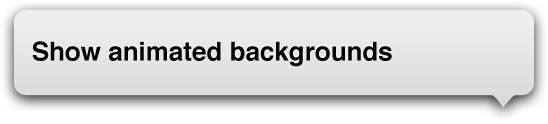
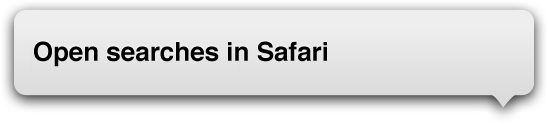
Changes for the Open in Safari switch

Changed region(s): [[0.062, 0.3145, 0.7135, 0.5323]]

diff --git a/app/WebSearch.js b/app/WebSearch.js
@@ -74,20 +74,28 @@ jQuery(function() {
 		}
 	}
 	
+	var openURL = function(url){
+		if($.WSConfig.get("WSOpenInSafari") == true){
+			window.location.href = url;
+		}else{
+			window.location = url;
+		}
+	}
+	
 	var pages = [
 		{ // Google
 			id: "searchGoogle",
 			contents: '<div id="googleLogo"></div>',
 			search: function(term){
 				term = term.replace(" ","+");
-				window.location = "http://www.google.com/search?q="+term+"&ie=UTF-8&oe=UTF-8&hl=en&client=safari";
+				openURL("http://www.google.com/search?q="+term+"&ie=UTF-8&oe=UTF-8&hl=en&client=safari");
 			}
 		}, { // Twitter
 			id: "searchTwitter",
 			contents: '<div id="twitterLogo"></div><div id="twitterBackground"></div>',
 			search:function(term){
 				term = term.replace(" ", "+");
-				window.location = "http://mobile.twitter.com/searches?q=" + term;
+				openURL("http://mobile.twitter.com/searches?q=" + term);
 			},
 			appear: $.PageView.Twitter.appear,
 			disappear: $.PageView.Twitter.disappear,
@@ -97,14 +105,14 @@ jQuery(function() {
 			id: "searchWikipedia",
 			search: function(term){
 				term = term.replace(" ","+");
-				window.location = "http://en.wikipedia.org/w/index.php?title=Special%3ASearch&search=" + term;
+				openURL("http://en.wikipedia.org/w/index.php?title=Special%3ASearch&search=" + term);
 			}
 		}, { // Flickr
  			id: "searchFlickr",
  			contents: '<div id="flickrLogo"></div>',
  			search:function(term){
  				term = term.replace(" ", "+");
- 				window.location = "http://m.flickr.com/#/search/advanced/_QM_q_IS_" + term;
+ 				openURL("http://m.flickr.com/#/search/advanced/_QM_q_IS_" + term);
  			}
  //			appear: $.PageView.Flickr.appear,
  //			disappear: $.PageView.Flickr.disappear
@@ -114,7 +122,7 @@ jQuery(function() {
 			contents: '<div id="bingLogo"></div><div id="bingBackground"></div>',
 			search: function(term){
 				term = term.replace(" ", "+");
-				window.location = "http://m.bing.com/search/search.aspx?q="+term+"&d=&dl=&a=results&a2=modifylocation&MID=10006&asq=&asems=";
+				openURL("http://m.bing.com/search/search.aspx?q="+term+"&d=&dl=&a=results&a2=modifylocation&MID=10006&asq=&asems=");
 			},
 			appear: $.PageView.Bing.appear,
 			disappear: $.PageView.Bing.disappear,
